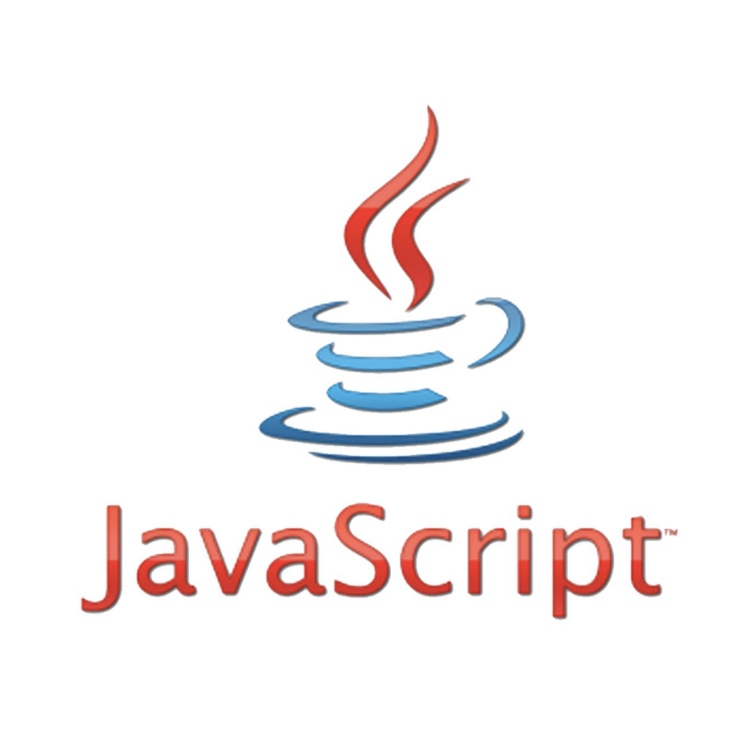
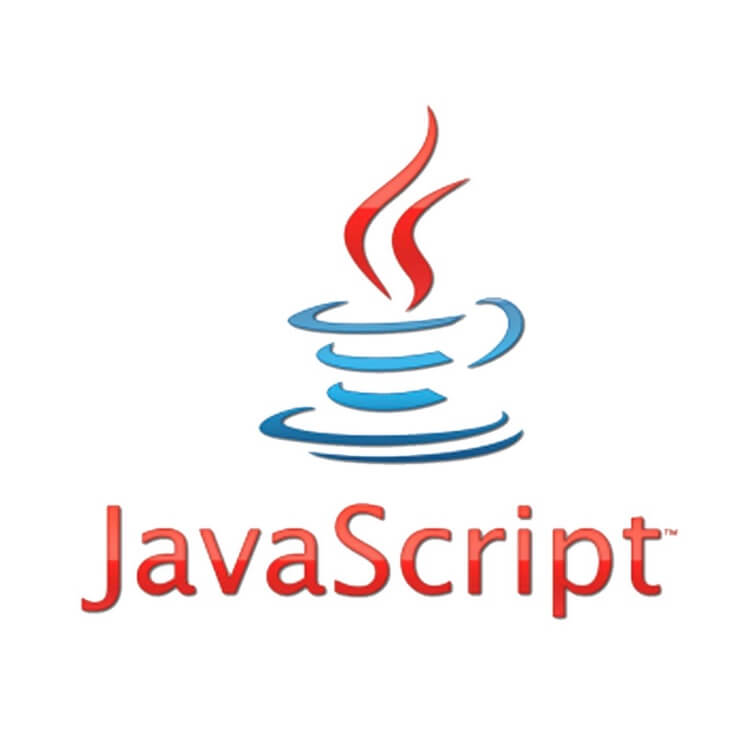
压缩图片

diff --git a/src/components/container/mb_project/project.js b/src/components/container/mb_project/project.js
@@ -4,7 +4,7 @@ import ele from '../../../assets/img/project/ele.png'
 import db from '../../../assets/img/project/douban.jpg'
 import rn from '../../../assets/img/project/react.png'
 import travel from '../../../assets/img/project/travel.png'
-import resume from '../../../assets/img/project/resume.png'
+import resume from '../../../assets/img/project/resume.jpg'
 
 export default function Project() {
   const project = [{

diff --git a/src/components/container/project/project.js b/src/components/container/project/project.js
@@ -4,7 +4,7 @@ import ele from '../../../assets/img/project/ele.png'
 import db from '../../../assets/img/project/douban.jpg'
 import rn from '../../../assets/img/project/react.png'
 import travel from '../../../assets/img/project/travel.png'
-import resume from '../../../assets/img/project/resume.png'
+import resume from '../../../assets/img/project/resume.jpg'
 
 export default function Project() {
   const project = [{
